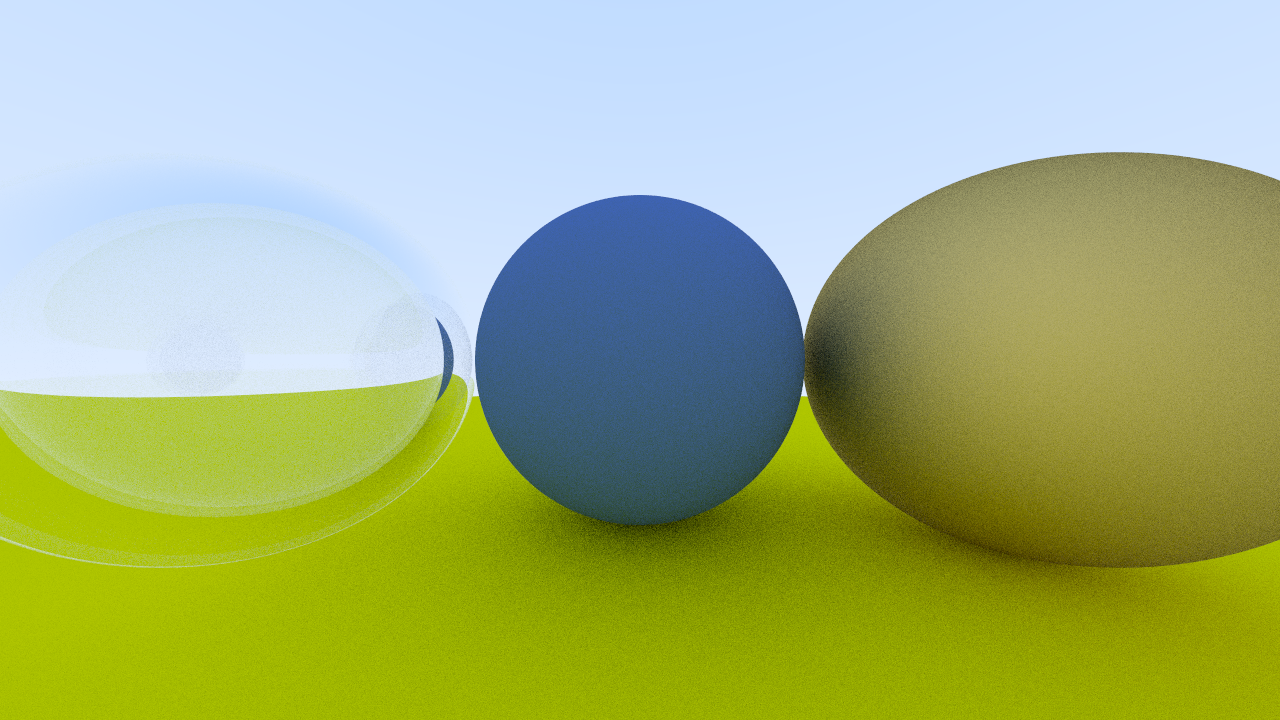
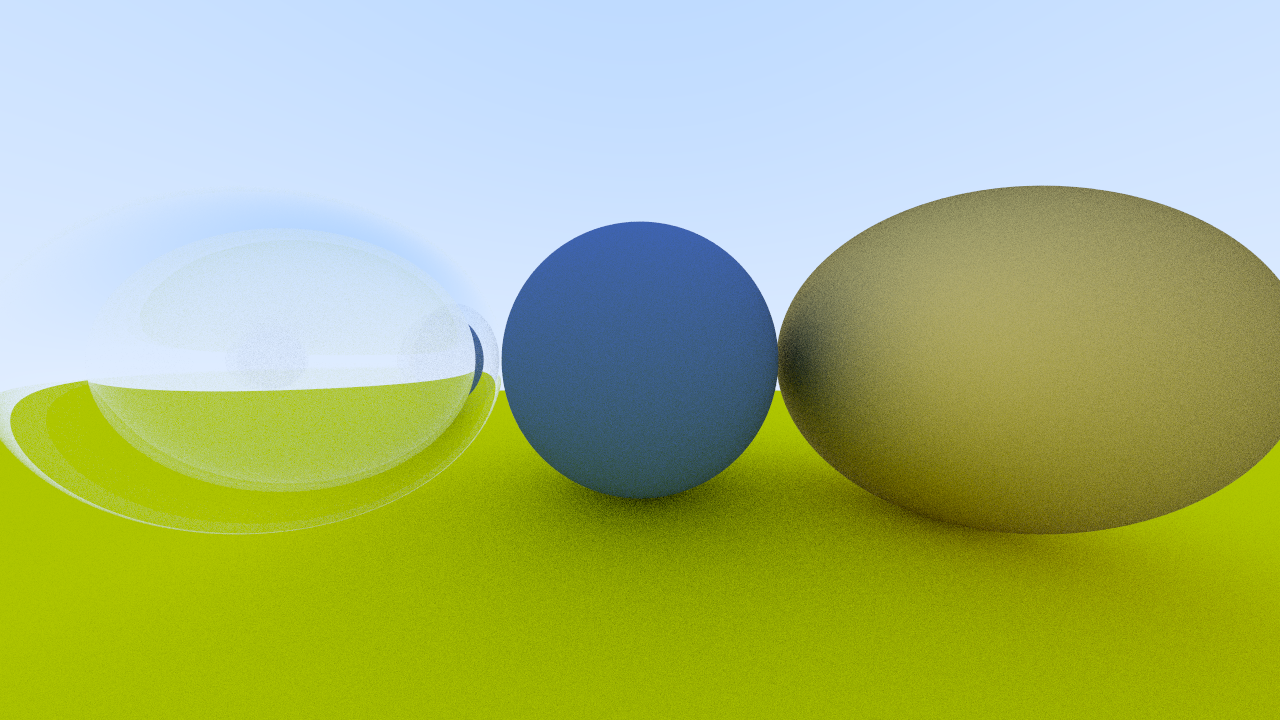
feat: use vertical field of view

Changed region(s): [[0.0, 0.2139, 1.0, 0.8861]]

diff --git a/src/common/camera.h b/src/common/camera.h
@@ -16,7 +16,10 @@ public:
     int image_width = 100;      // Rendered image width in pixel count
     int samples_per_pixel = 10; // Count of random samples for each pixel
     int max_depth = 10;         // Maximum number of ray bounces into scene
-    cv::Mat img;                // Rendered image as cv::Mat
+
+    double vfov = 90; // Vertical field of view in degrees
+
+    cv::Mat img; // Rendered image as cv::Mat
 
 public:
     void render(const pro::proxy<Hittable>& world) {
@@ -67,7 +70,9 @@ private:
 
         // Determine viewport dimensions.
         const double focal_length = 1.0;
-        const double viewport_height = 2.0;
+        const double theta = deg2rad(vfov);
+        const double h = std::tan(0.5 * theta);
+        const double viewport_height = 2.0 * h * focal_length;
         const double viewport_width = viewport_height * (double(image_width) / image_height);
 
         // Calculate the vectors across the horizontal and down the vertical viewport edges.

diff --git a/utils/use_core.cpp b/utils/use_core.cpp
@@ -53,6 +53,7 @@ int main(int argc, const char* argv[]) {
     cam.image_width = 1280;
     cam.samples_per_pixel = 50;
     cam.max_depth = 50;
+    cam.vfov = 100.0;
 
     // Render
     cam.render(world_as_hittable);
